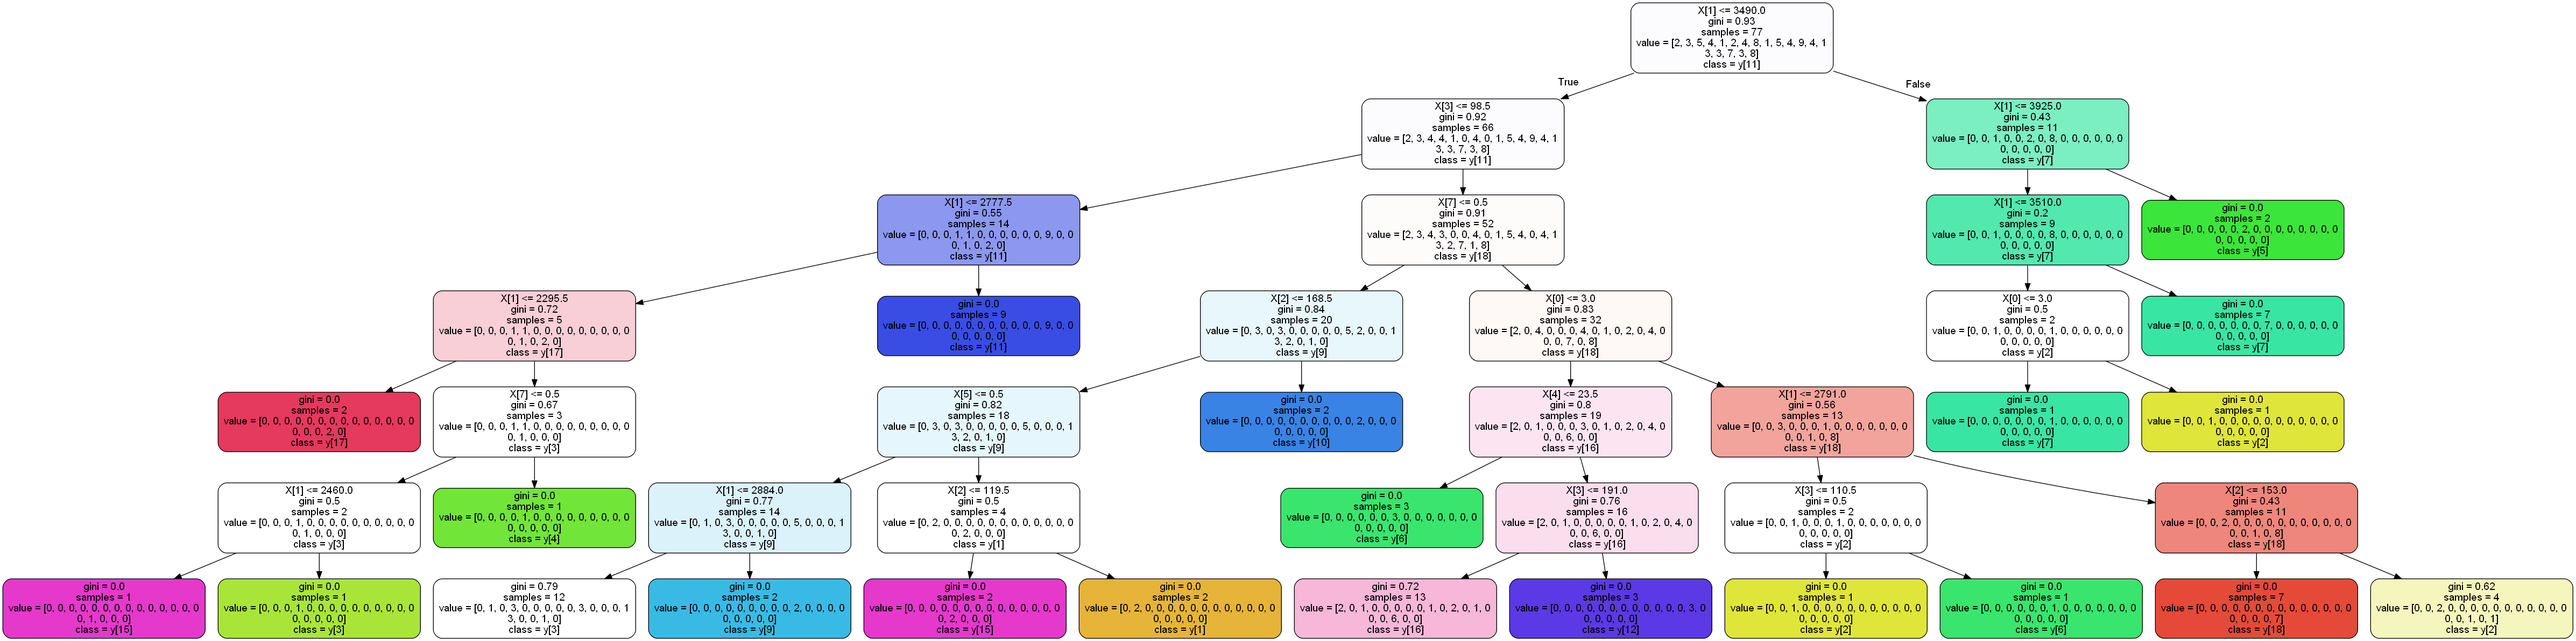
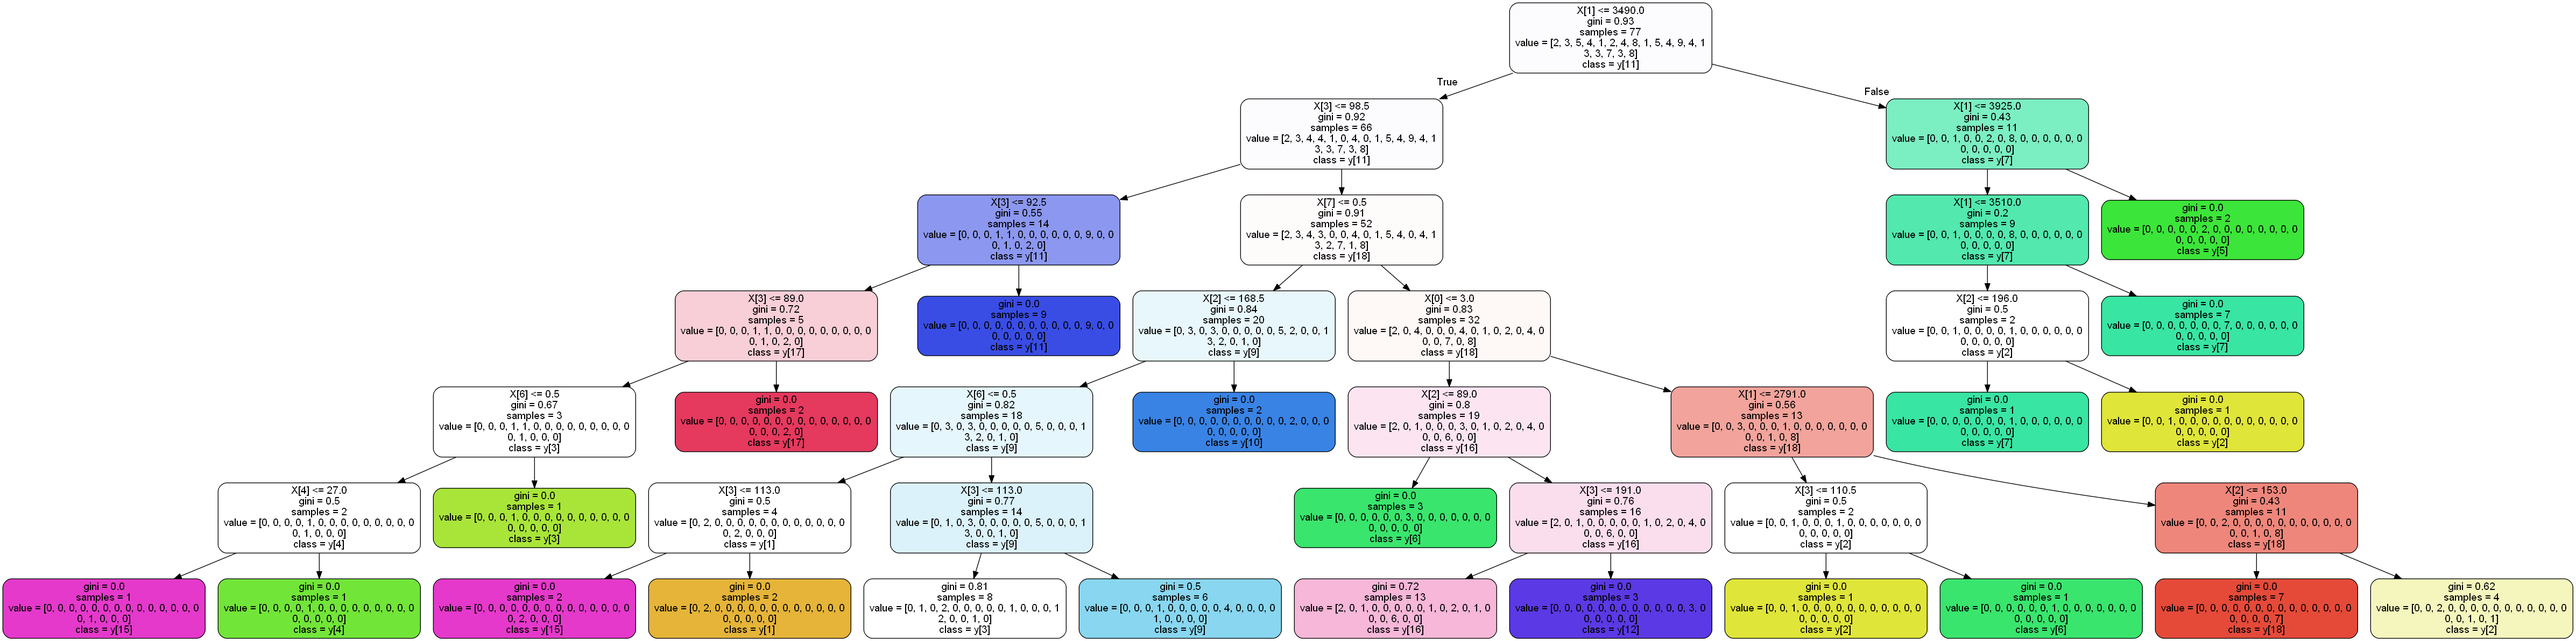
pc size

diff --git a/StartPage.py b/StartPage.py
@@ -3,7 +3,6 @@ from PIL import ImageTk, Image
 
 # pip install Pillow
 from DecisionML import Decision
-from Gui_Ques.City import City
 
 
 class StartPage:
@@ -14,14 +13,14 @@ class StartPage:
         root.geometry("1230x660")
         root.resizable(FALSE, FALSE)
         icona = PhotoImage(file="img/DecisionCarIco.png")
-        #root.tk.call("wm", "iconphoto", root.w, icona)
-        frame = Frame(root, height=1280, width=690)
-        frame.grid(row=0, column=0, columnspan=5, rowspan=5)
+        # root.tk.call("wm", "iconphoto", root.w, icona)
+        frame = Frame(root, height=660, width=1230)
+        frame.grid(row=0, column=0, columnspan=5, rowspan=6)
 
-        canvas = Canvas(frame, width=1280, height=720)
+        canvas = Canvas(frame, width=1280, height=660)
         image = ImageTk.PhotoImage(Image.open("img/DecisionCar.png"))
         canvas.create_image(0, 0, anchor=NW, image=image)
-        canvas.grid(row=0, column=1, columnspan=5, rowspan=5)
+        canvas.grid(row=0, column=1, columnspan=5, rowspan=6)
 
         l1 = Label(frame, text="Benvenuto in", background='#c8e6c9', foreground="#43a047", font=("Helvetica", 60))
         l2 = Label(frame, text="decisIoncAr", background='#c8e6c9', foreground="#43a047", font=("Helvetica", 90))
@@ -35,6 +34,6 @@ class StartPage:
         b1 = Button(frame, text="Start", command=loadPage, width=10, background="#c8e6c9",
                     font=('Courrier', '50'),
                     foreground="#ff8f00")
-        b1.grid(row=2, column=4)
+        b1.grid(row=3, column=4)
 
         root.mainloop()

diff --git a/DecisionML.py b/DecisionML.py
@@ -13,10 +13,10 @@ class Decision:
 
         frame.grid(row=0, column=0, columnspan=5, rowspan=5)
 
-        canvasN = Canvas(frame, width=1280, height=720)
+        canvasN = Canvas(frame, width=1230, height=660)
         imageN = ImageTk.PhotoImage(Image.open("img/DecisionCar1.png"))
         canvasN.create_image(0, 0, anchor=NW, image=imageN)
-        canvasN.grid(row=0, column=0, columnspan=5, rowspan=5)
+        canvasN.grid(row=0, column=0, columnspan=5, rowspan=6)
 
         def Question1():
             def setCitta():
@@ -38,8 +38,8 @@ class Decision:
                 Race(frame)
 
             l1 = Label(frame, text="Per cosa utilizzerai", background='#c8e6c9', foreground="#43a047",
-                       font=("Helvetica", 60))
-            l2 = Label(frame, text="l'auto?", background='#c8e6c9', foreground="#43a047", font=("Helvetica", 50))
+                       font=("Helvetica", 70))
+            l2 = Label(frame, text="l'auto?", background='#c8e6c9', foreground="#43a047", font=("Helvetica", 60))
 
             l1.grid(row=0, column=4)
             l2.grid(row=1, column=4)
@@ -54,7 +54,7 @@ class Decision:
                         font=('Courrier', '20'),
                         foreground=ColorBttnTxT)
 
-            b3 = Button(frame, text="Svago", width=15, background=ColorBttn,
+            b3 = Button(frame, text="Performance ", width=15, background=ColorBttn,
                         command=setSvago,
                         font=('Courrier', '20'),
                         foreground=ColorBttnTxT)

diff --git a/MachineLearning/DecisionTreeRace.py b/MachineLearning/DecisionTreeRace.py
@@ -35,12 +35,13 @@ class DecisionML:
         # Eliminiamo le vetture sopra la media per caratteristiche rilevanti e la ricalcoliamo
         print(F"Esempi di partenza (!Wne): {carsData.shape}")
 
-        print(carsData.columns.tolist())
-        carsData = carsData.drop(carsData[(carsData.cilindri < MINCILINDRI)].index)
-        print(carsData.columns.tolist())
-        carsData = carsData.drop(carsData[(carsData.cilindrata < 100) & (carsData.cavalli < mediaCavalli)].index)
 
-        print(carsData.columns.tolist())
+        carsData = carsData.drop(carsData[(carsData.cilindri < MINCILINDRI)].index)
+        carsData = carsData.drop(carsData[(carsData.cilindrata < 100)].index)
+        carsData = carsData.drop(carsData[(carsData.cavalli < mediaCavalli)].index)
+        carsData = carsData.drop(carsData[(carsData.marca == "toyota")].index)
+        carsData = carsData.drop(carsData[(carsData.marca == "nissan")].index)
+
 
         mediaCilindrata = carsData['cilindrata'].mean()
         mediaCilindri = carsData['cilindri'].mean()
@@ -92,7 +93,7 @@ class DecisionML:
 
         print(F"Esempi su chi abbiamo fatto train e test: {x.shape}")
 
-        tree = DecisionTreeClassifier(criterion="gini", max_depth=3)
+        tree = DecisionTreeClassifier(criterion="gini")
         tree.fit(x_train, y_train)
         y_pred_train = tree.predict(x_train)
         y_pred = tree.predict(x_test)

diff --git a/Gui_Ques/Trip.py b/Gui_Ques/Trip.py
@@ -16,13 +16,13 @@ class Trip:
 
         frame.grid(row=0, column=0, columnspan=5, rowspan=5)
 
-        canvasN = Canvas(frame, width=1280, height=720)
+        canvasN = Canvas(frame, width=1230, height=660)
         imageN = ImageTk.PhotoImage(Image.open("img/DecisionCarTripp.png"))
         canvasN.create_image(0, 0, anchor=NW, image=imageN)
         canvasN.grid(row=0, column=0, columnspan=5, rowspan=5)
 
         def Tree():
-            from TreePng import ShowTree
+            from img.TreePng import ShowTree
             ShowTree(frame, "TRIP")
 
         def PrintResult(value):

diff --git a/Gui_Ques/City.py b/Gui_Ques/City.py
@@ -16,13 +16,13 @@ class City:
 
         frame.grid(row=0, column=0, columnspan=5, rowspan=5)
 
-        canvasN = Canvas(frame, width=1280, height=720)
+        canvasN = Canvas(frame, width=1230, height=660)
         imageN = ImageTk.PhotoImage(Image.open("img/DecisionCarCity.png"))
         canvasN.create_image(0, 0, anchor=NW, image=imageN)
         canvasN.grid(row=0, column=0, columnspan=5, rowspan=5)
 
         def Tree():
-            from TreePng import ShowTree
+            from img.TreePng import ShowTree
             ShowTree(frame, "CITY")
 
         def PrintResult(value):

diff --git a/Gui_Ques/Race.py b/Gui_Ques/Race.py
@@ -16,13 +16,13 @@ class Race:
 
         frame.grid(row=0, column=0, columnspan=5, rowspan=5)
 
-        canvasN = Canvas(frame, width=1280, height=720)
+        canvasN = Canvas(frame, width=1230, height=660)
         imageN = ImageTk.PhotoImage(Image.open("img/DecisionCarRace.png"))
         canvasN.create_image(0, 0, anchor=NW, image=imageN)
         canvasN.grid(row=0, column=0, columnspan=5, rowspan=5)
 
         def Tree():
-            from TreePng import ShowTree
+            from img.TreePng import ShowTree
             ShowTree(frame, "RACE")
 
         def PrintResult(value):

diff --git a/img/TreePng.py b/img/TreePng.py
@@ -15,9 +15,9 @@ class ShowTree:
 
         frame.grid(row=0, column=0, columnspan=5, rowspan=5)
 
-        canvasN = Canvas(frame, width=1280, height=720)
+        canvasN = Canvas(frame, width=1230, height=660)
         img = Image.open(pathPng)
-        img = img.resize((1280, 720), Image.ANTIALIAS)
+        img = img.resize((1230, 660), Image.ANTIALIAS)
         imageN = ImageTk.PhotoImage(img)
         canvasN.create_image(0, 0, anchor=NW, image=imageN)
         canvasN.grid(row=0, column=0, columnspan=5, rowspan=5)

diff --git a/MachineLearning/DecisionTreeCity.py b/MachineLearning/DecisionTreeCity.py
@@ -115,6 +115,7 @@ class DecisionML:
 
         print(F"Predizione: {predizione[0]}")
 
+
         os.environ['PATH'] = os.environ['PATH'] + ';' + os.environ['CONDA_PREFIX'] + r"\Library\bin\graphviz"
         export_graphviz(tree, out_file="treecity.dot", feature_names=None, rounded=True, precision=2,
                         filled=True, class_names=True)
